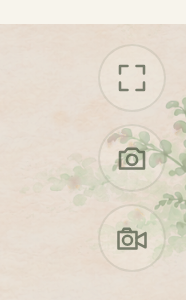
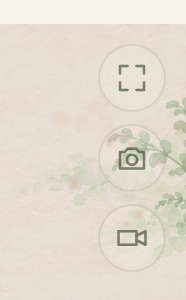
1.1.7 녹화 아이콘을 아주 단순한 캠코더(네모+삼각형)로
Claude-Session: https://claude.ai/code/session_01AkSebmy3Y1v8yPfHbxXfQs

Changed region(s): [[0.6183, 0.75, 0.8065, 0.84]]

diff --git a/app/src/main/assets/web/forest-app.js b/app/src/main/assets/web/forest-app.js
@@ -1,7 +1,7 @@
 'use strict';
 (()=>{
 const F=Forest,$=id=>document.getElementById(id),escape=v=>String(v).replace(/[&<>"']/g,c=>({'&':'&amp;','<':'&lt;','>':'&gt;','"':'&quot;',"'":'&#39;'}[c]));
-const icons={world:'<path d="M4 15c0-6 4-9 8-9s8 3 8 9v4H4z"/><path d="M8 19v-5a4 4 0 0 1 8 0v5M12 6V3m0 2 4-2"/>',friends:'<circle cx="9" cy="8" r="3"/><path d="M3 20v-3a6 6 0 0 1 12 0v3M16 5a3 3 0 0 1 0 6m2 3a5 5 0 0 1 3 5"/>',book:'<path d="M12 6C8 3 5 4 2 5v15c4-2 7-1 10 0 3-1 6-2 10 0V5c-3-1-6-2-10 1Zm0 0v14"/>',leaf:'<path d="M12 21V10C8 4 3 4 2 4c0 8 5 11 10 8M12 15c1-8 7-10 10-10 0 7-5 11-10 10"/>',gear:'<path d="M19.391 8.939 L19.846 10.439 L21.808 10.049 L21.808 13.951 L19.846 13.561 L19.391 15.061 L19.391 15.061 L18.652 16.445 L20.315 17.556 L17.556 20.315 L16.445 18.652 L15.061 19.391 L15.061 19.391 L13.561 19.846 L13.951 21.808 L10.049 21.808 L10.439 19.846 L8.939 19.391 L8.939 19.391 L7.555 18.652 L6.444 20.315 L3.685 17.556 L5.348 16.445 L4.609 15.061 L4.609 15.061 L4.154 13.561 L2.192 13.951 L2.192 10.049 L4.154 10.439 L4.609 8.939 L4.609 8.939 L5.348 7.555 L3.685 6.444 L6.444 3.685 L7.555 5.348 L8.939 4.609 L8.939 4.609 L10.439 4.154 L10.049 2.192 L13.951 2.192 L13.561 4.154 L15.061 4.609 L15.061 4.609 L16.445 5.348 L17.556 3.685 L20.315 6.444 L18.652 7.555 L19.391 8.939 Z"/><circle cx="12" cy="12" r="3.2"/>',close:'<path d="m6 6 12 12M6 18 18 6"/>',arrow:'<path d="m9 5 7 7-7 7"/>',back:'<path d="m15 5-7 7 7 7"/>',expand:'<path d="M4 9V4h5M20 9V4h-5M4 15v5h5M20 15v5h-5"/>',home:'<circle cx="12" cy="12" r="3"/><path d="M12 3v3M12 18v3M3 12h3M18 12h3"/>',video:'<path d="M3 8h12v11H3z"/><circle cx="9" cy="13.5" r="3"/><path d="m15 12 6-3.2v9.4L15 15"/><path d="M5.5 8 6.6 5.8h3.8L11.5 8"/>',camera:'<path d="M4 8h3.2l1.8-2.2h6l1.8 2.2H20v11H4z"/><circle cx="12" cy="13.2" r="3.4"/>'};
+const icons={world:'<path d="M4 15c0-6 4-9 8-9s8 3 8 9v4H4z"/><path d="M8 19v-5a4 4 0 0 1 8 0v5M12 6V3m0 2 4-2"/>',friends:'<circle cx="9" cy="8" r="3"/><path d="M3 20v-3a6 6 0 0 1 12 0v3M16 5a3 3 0 0 1 0 6m2 3a5 5 0 0 1 3 5"/>',book:'<path d="M12 6C8 3 5 4 2 5v15c4-2 7-1 10 0 3-1 6-2 10 0V5c-3-1-6-2-10 1Zm0 0v14"/>',leaf:'<path d="M12 21V10C8 4 3 4 2 4c0 8 5 11 10 8M12 15c1-8 7-10 10-10 0 7-5 11-10 10"/>',gear:'<path d="M19.391 8.939 L19.846 10.439 L21.808 10.049 L21.808 13.951 L19.846 13.561 L19.391 15.061 L19.391 15.061 L18.652 16.445 L20.315 17.556 L17.556 20.315 L16.445 18.652 L15.061 19.391 L15.061 19.391 L13.561 19.846 L13.951 21.808 L10.049 21.808 L10.439 19.846 L8.939 19.391 L8.939 19.391 L7.555 18.652 L6.444 20.315 L3.685 17.556 L5.348 16.445 L4.609 15.061 L4.609 15.061 L4.154 13.561 L2.192 13.951 L2.192 10.049 L4.154 10.439 L4.609 8.939 L4.609 8.939 L5.348 7.555 L3.685 6.444 L6.444 3.685 L7.555 5.348 L8.939 4.609 L8.939 4.609 L10.439 4.154 L10.049 2.192 L13.951 2.192 L13.561 4.154 L15.061 4.609 L15.061 4.609 L16.445 5.348 L17.556 3.685 L20.315 6.444 L18.652 7.555 L19.391 8.939 Z"/><circle cx="12" cy="12" r="3.2"/>',close:'<path d="m6 6 12 12M6 18 18 6"/>',arrow:'<path d="m9 5 7 7-7 7"/>',back:'<path d="m15 5-7 7 7 7"/>',expand:'<path d="M4 9V4h5M20 9V4h-5M4 15v5h5M20 15v5h-5"/>',home:'<circle cx="12" cy="12" r="3"/><path d="M12 3v3M12 18v3M3 12h3M18 12h3"/>',video:'<path d="M3 7.5h12v9H3z"/><path d="m15 10.5 6-3v9l-6-3"/>',camera:'<path d="M4 8h3.2l1.8-2.2h6l1.8 2.2H20v11H4z"/><circle cx="12" cy="13.2" r="3.4"/>'};
 const icon=k=>'<svg viewBox="0 0 24 24" aria-hidden="true">'+icons[k]+'</svg>';
 const native=window.RidleyNative,KEY='forest-of-space-v1';let inspector=null,inspectionCamera=null,stageLab=null;let adminWho='all',hintMsg='',hintUntil=0,state,tab='world',selected=null,patchSelected=null,dex='species',editor=false,ready=false,storageFailed=false,foreground=!document.hidden,last=performance.now(),acc=0,lastSave=0,toastTimer,returnPage='world',pendingImport=null,facilityDraft=null;
 function notice(t){$('toast').textContent=t;$('toast').classList.add('show');clearTimeout(toastTimer);toastTimer=setTimeout(()=>$('toast').classList.remove('show'),5500);}

diff --git a/AGENTS.md b/AGENTS.md
@@ -3,7 +3,7 @@
 2026-11-21. 사용자 요청: "일정시간 월드를 비디오 녹화하는 기능 넣을 수 있나" → "그냥 최대 시간은 1분으로 지정해두고, 그 안에서 찍다가 정지하는 게 좋을 거 같음".
 
 변경 내용(화면·Android 셸, 게임 규칙·저장 불변):
-- **녹화 버튼(`index.html`·`forest-app.js`·`forest.css`):** 오른쪽 위 사진 버튼 아래에 캠코더 아이콘(사진 아이콘과 같은 모양, 사용자 요청). 누르면 녹화를 시작하고, 버튼이 빨간 정지 표시와 남은 시간(1:00부터 줄어듦)으로 바뀐다. 다시 누르면 멈추고 저장한다. 1분이 되면 저절로 멈춘다. 앱이 뒤로 가면(화면 꺼짐 등) 그때까지 찍은 것을 저장한다.
+- **녹화 버튼(`index.html`·`forest-app.js`·`forest.css`):** 오른쪽 위 사진 버튼 아래에 캠코더 아이콘(네모 + 렌즈 삼각형만, 사용자 "엄청 심플하게"). 누르면 녹화를 시작하고, 버튼이 빨간 정지 표시와 남은 시간(1:00부터 줄어듦)으로 바뀐다. 다시 누르면 멈추고 저장한다. 1분이 되면 저절로 멈춘다. 앱이 뒤로 가면(화면 꺼짐 등) 그때까지 찍은 것을 저장한다.
 - **찍히는 것:** 사진처럼 월드 그림판만(버튼·안내·카드 없음, 친구 선택 링은 녹화 동안 숨김). 끌어 보기·확대·축소한 그대로 담긴다. 초당 30장, 약 2.5Mbps(1분 약 19MB). 게임 소리(배경음·효과음)도 함께 녹음한다(소리 크기 설정 그대로, `audio.js` `stream`).
 - **형식:** 기기가 지원하면 MP4, 아니면 WebM. 크롬 확인: MP4(H.264 영상 + Opus 소리).
 - **저장(`MainActivity.java` `videoBegin`·`videoChunk`·`videoEnd`):** Android는 갤러리 `동영상/여백의 숲`에 1초마다 조금씩 바로 써서 1분 영상도 메모리에 한꺼번에 들고 있지 않는다. Android 10 이상 MediaStore라 권한이 필요 없다. 실패하면 만들던 파일을 지운다. 브라우저에서는 파일로 내려받는다.

diff --git a/README.md b/README.md
@@ -3,7 +3,7 @@
 2026-11-21. 사용자 요청: "일정시간 월드를 비디오 녹화하는 기능 넣을 수 있나" → "그냥 최대 시간은 1분으로 지정해두고, 그 안에서 찍다가 정지하는 게 좋을 거 같음".
 
 변경 내용(화면·Android 셸, 게임 규칙·저장 불변):
-- **녹화 버튼(`index.html`·`forest-app.js`·`forest.css`):** 오른쪽 위 사진 버튼 아래에 캠코더 아이콘(사진 아이콘과 같은 모양, 사용자 요청). 누르면 녹화를 시작하고, 버튼이 빨간 정지 표시와 남은 시간(1:00부터 줄어듦)으로 바뀐다. 다시 누르면 멈추고 저장한다. 1분이 되면 저절로 멈춘다. 앱이 뒤로 가면(화면 꺼짐 등) 그때까지 찍은 것을 저장한다.
+- **녹화 버튼(`index.html`·`forest-app.js`·`forest.css`):** 오른쪽 위 사진 버튼 아래에 캠코더 아이콘(네모 + 렌즈 삼각형만, 사용자 "엄청 심플하게"). 누르면 녹화를 시작하고, 버튼이 빨간 정지 표시와 남은 시간(1:00부터 줄어듦)으로 바뀐다. 다시 누르면 멈추고 저장한다. 1분이 되면 저절로 멈춘다. 앱이 뒤로 가면(화면 꺼짐 등) 그때까지 찍은 것을 저장한다.
 - **찍히는 것:** 사진처럼 월드 그림판만(버튼·안내·카드 없음, 친구 선택 링은 녹화 동안 숨김). 끌어 보기·확대·축소한 그대로 담긴다. 초당 30장, 약 2.5Mbps(1분 약 19MB). 게임 소리(배경음·효과음)도 함께 녹음한다(소리 크기 설정 그대로, `audio.js` `stream`).
 - **형식:** 기기가 지원하면 MP4, 아니면 WebM. 크롬 확인: MP4(H.264 영상 + Opus 소리).
 - **저장(`MainActivity.java` `videoBegin`·`videoChunk`·`videoEnd`):** Android는 갤러리 `동영상/여백의 숲`에 1초마다 조금씩 바로 써서 1분 영상도 메모리에 한꺼번에 들고 있지 않는다. Android 10 이상 MediaStore라 권한이 필요 없다. 실패하면 만들던 파일을 지운다. 브라우저에서는 파일로 내려받는다.

diff --git a/docs/Forest-1.1.7-Release.md b/docs/Forest-1.1.7-Release.md
@@ -3,7 +3,7 @@
 2026-11-21. 사용자 요청: "일정시간 월드를 비디오 녹화하는 기능 넣을 수 있나" → "그냥 최대 시간은 1분으로 지정해두고, 그 안에서 찍다가 정지하는 게 좋을 거 같음".
 
 변경 내용(화면·Android 셸, 게임 규칙·저장 불변):
-- **녹화 버튼(`index.html`·`forest-app.js`·`forest.css`):** 오른쪽 위 사진 버튼 아래에 캠코더 아이콘(사진 아이콘과 같은 모양, 사용자 요청). 누르면 녹화를 시작하고, 버튼이 빨간 정지 표시와 남은 시간(1:00부터 줄어듦)으로 바뀐다. 다시 누르면 멈추고 저장한다. 1분이 되면 저절로 멈춘다. 앱이 뒤로 가면(화면 꺼짐 등) 그때까지 찍은 것을 저장한다.
+- **녹화 버튼(`index.html`·`forest-app.js`·`forest.css`):** 오른쪽 위 사진 버튼 아래에 캠코더 아이콘(네모 + 렌즈 삼각형만, 사용자 "엄청 심플하게"). 누르면 녹화를 시작하고, 버튼이 빨간 정지 표시와 남은 시간(1:00부터 줄어듦)으로 바뀐다. 다시 누르면 멈추고 저장한다. 1분이 되면 저절로 멈춘다. 앱이 뒤로 가면(화면 꺼짐 등) 그때까지 찍은 것을 저장한다.
 - **찍히는 것:** 사진처럼 월드 그림판만(버튼·안내·카드 없음, 친구 선택 링은 녹화 동안 숨김). 끌어 보기·확대·축소한 그대로 담긴다. 초당 30장, 약 2.5Mbps(1분 약 19MB). 게임 소리(배경음·효과음)도 함께 녹음한다(소리 크기 설정 그대로, `audio.js` `stream`).
 - **형식:** 기기가 지원하면 MP4, 아니면 WebM. 크롬 확인: MP4(H.264 영상 + Opus 소리).
 - **저장(`MainActivity.java` `videoBegin`·`videoChunk`·`videoEnd`):** Android는 갤러리 `동영상/여백의 숲`에 1초마다 조금씩 바로 써서 1분 영상도 메모리에 한꺼번에 들고 있지 않는다. Android 10 이상 MediaStore라 권한이 필요 없다. 실패하면 만들던 파일을 지운다. 브라우저에서는 파일로 내려받는다.

diff --git a/docs/IMPLEMENTATION_STATUS.md b/docs/IMPLEMENTATION_STATUS.md
@@ -3,7 +3,7 @@
 2026-11-21. 사용자 요청: "일정시간 월드를 비디오 녹화하는 기능 넣을 수 있나" → "그냥 최대 시간은 1분으로 지정해두고, 그 안에서 찍다가 정지하는 게 좋을 거 같음".
 
 변경 내용(화면·Android 셸, 게임 규칙·저장 불변):
-- **녹화 버튼(`index.html`·`forest-app.js`·`forest.css`):** 오른쪽 위 사진 버튼 아래에 캠코더 아이콘(사진 아이콘과 같은 모양, 사용자 요청). 누르면 녹화를 시작하고, 버튼이 빨간 정지 표시와 남은 시간(1:00부터 줄어듦)으로 바뀐다. 다시 누르면 멈추고 저장한다. 1분이 되면 저절로 멈춘다. 앱이 뒤로 가면(화면 꺼짐 등) 그때까지 찍은 것을 저장한다.
+- **녹화 버튼(`index.html`·`forest-app.js`·`forest.css`):** 오른쪽 위 사진 버튼 아래에 캠코더 아이콘(네모 + 렌즈 삼각형만, 사용자 "엄청 심플하게"). 누르면 녹화를 시작하고, 버튼이 빨간 정지 표시와 남은 시간(1:00부터 줄어듦)으로 바뀐다. 다시 누르면 멈추고 저장한다. 1분이 되면 저절로 멈춘다. 앱이 뒤로 가면(화면 꺼짐 등) 그때까지 찍은 것을 저장한다.
 - **찍히는 것:** 사진처럼 월드 그림판만(버튼·안내·카드 없음, 친구 선택 링은 녹화 동안 숨김). 끌어 보기·확대·축소한 그대로 담긴다. 초당 30장, 약 2.5Mbps(1분 약 19MB). 게임 소리(배경음·효과음)도 함께 녹음한다(소리 크기 설정 그대로, `audio.js` `stream`).
 - **형식:** 기기가 지원하면 MP4, 아니면 WebM. 크롬 확인: MP4(H.264 영상 + Opus 소리).
 - **저장(`MainActivity.java` `videoBegin`·`videoChunk`·`videoEnd`):** Android는 갤러리 `동영상/여백의 숲`에 1초마다 조금씩 바로 써서 1분 영상도 메모리에 한꺼번에 들고 있지 않는다. Android 10 이상 MediaStore라 권한이 필요 없다. 실패하면 만들던 파일을 지운다. 브라우저에서는 파일로 내려받는다.

diff --git a/HANDOFF.md b/HANDOFF.md
@@ -861,3 +861,4 @@
 - 판단(사용자가 정하지 않은 것): 소리는 함께 녹음(소리 크기 설정 그대로), 버튼은 사진 아래 따로 둠.
 - 검증: `package`·`android-shell-dex` 통과, UI PASS, javac 컴파일, 크롬 3초 녹화 MP4(H.264+Opus) 확인. 전체는 CI. Android 실기기(WebView MP4 지원·갤러리 저장·렉) 미검증.
 - 아이콘: 사용자 "기본 버튼 아이콘은 위에 카메라 아이콘 처럼 비디오 캠코더 아이콘" → 사진 아이콘과 같은 각진 몸통·위 볼록·렌즈 원 + 옆 렌즈통.
+- 아이콘 다시: 사용자 "엄청 심플하게" → 네모 몸통 + 렌즈 삼각형만.
